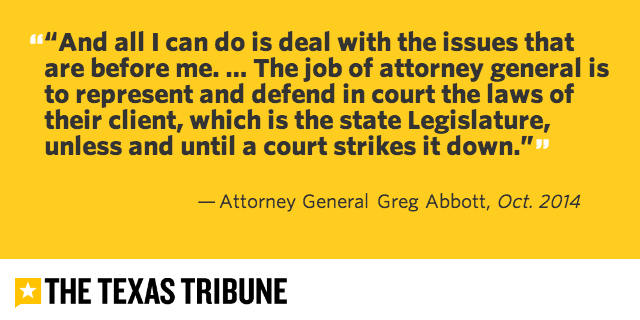
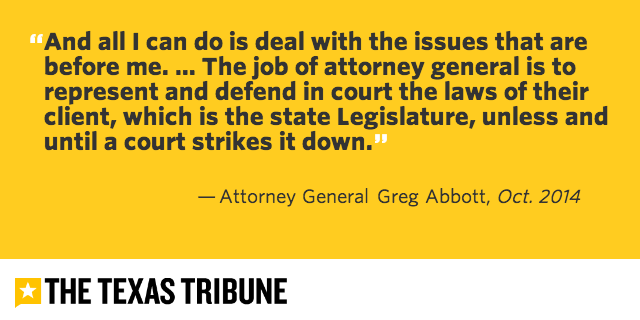
fixed image double quotes, added facebook btn

Changed region(s): [[0.0625, 0.0938, 0.9688, 0.5], [0.3125, 0.5938, 0.9062, 0.6562]]

diff --git a/app/index.html b/app/index.html
@@ -19,12 +19,12 @@
 <body>
 <div id="graphic" class="graphic">
 <div class="counter">
-  <p><span class="current">1</span> out of <span class="total">13</span></p>
+  <p><span class="current">1</span> of <span class="total">13</span></p>
 </div>
   <div class="slideshow">
     <div class="prev slide-btn">
       <div class="btn-container">
-        <i class="fa fa-chevron-left"></i>
+        <a href="javascript:void(0)"><i class="fa fa-chevron-left"></i></a>
       </div>
     </div>
     <div class="clearfix">
@@ -48,7 +48,7 @@
           <p><a class="story-url" target="_top" href="{{ quote.articleUrl }}">{{ quote.headline }}</a></p>
         </div>
         <div class="share-box">
-          <p><span class="fa fa-twitter tweet social"></span> <span class="fa fa-envelope mail social"></span> <span class="fa fa-facebook fbook social"></span> </p>
+          <a target="_top" href="https://www.facebook.com/dialog/feed?app_id=154122474650943&display=popup&name=The%20Tribune%27s%20Best%20Quotes%20of%202014&link=http%3A%2F%2Fwww.texastribune.org%2F2014%2F12%2F23%2Ftribunes-best-quotes-2014%2F&redirect_uri=http%3A%2F%2Fwww.texastribune.org%2F2014%2F12%2F23%2Ftribunes-best-quotes-2014%2F&description={{ quote.quote | urlencode }}&image={{ quote.facebookUrl | urlencode }}"><span class="fa fa-facebook fbook social"></span></a>
         </div>
       </div>
       {% else %}
@@ -66,7 +66,9 @@
               <p><a class="story-url" target="_top" href="{{ quote.articleUrl }}">{{ quote.headline }}</a></p>
             </div>
             <div class="share-box">
-              <p><span class="fa fa-twitter tweet social"></span> <span class="fa fa-envelope mail social"></span> <span class="fa fa-facebook fbook social"></span> </p>
+              <p>
+              <a target="_top" href="https://www.facebook.com/dialog/feed?app_id=154122474650943&display=popup&name=The%20Tribune%27s%20Best%20Quotes%20of%202014&link=http%3A%2F%2Fwww.texastribune.org%2F2014%2F12%2F23%2Ftribunes-best-quotes-2014%2F&redirect_uri=http%3A%2F%2Fwww.texastribune.org%2F2014%2F12%2F23%2Ftribunes-best-quotes-2014%2F&description={{ quote.quote | urlencode }}&image={{ quote.facebookUrl | urlencode }}"><span class="fa fa-facebook fbook social"></span></a>
+              </p>
             </div>
           </div>
         </div>
@@ -76,7 +78,7 @@
   </div>
     <div class="next slide-btn">
       <div class="btn-container">
-        <i class="fa fa-chevron-right"></i>
+        <a href="javascript:void(0)"><i class="fa fa-chevron-right"></i></a>
       </div>
     </div>
   </div>

diff --git a/app/scripts/main.js b/app/scripts/main.js
@@ -9,34 +9,22 @@
 
   //prev/next buttons being buttons
   $('.slide-btn').on('click', function(){
+    var trigger = $(this).hasClass('next') ? 'next' : 'prev';
     var activeSlide = $('.slide.active'),
       idx = $('.slide').index(activeSlide),
-      nextSlide = $(this).hasClass('next') ? idx + 1 : idx - 1;
+      nextSlide = trigger === 'next' ? idx + 1 : idx - 1;
     $('.slide').eq(nextSlide).addClass('active').siblings('.active').removeClass('active');
     console.log(idx);
 
     pymChild.sendHeight();
 
-
     // reset at the end
-    if (idx === 12){
+    if (idx === 12 && trigger === 'next'){
       $('.slide').eq(0).addClass('active').siblings('.active').removeClass('active');
     };
 
-  });
-
-  $('.next.slide-btn').on('click', function(){
-    $('.current').html(current += 1);
-    if (idx === 12){
-      current = 1;
-    }
-  });
-
-  $('prev.slide-btn').on('click', function(){
-    $('current').html(current -= 1);
-    if (idx === 12){
-      current = 12;
-    }
+    $('.current').text($('.slide').index($('.active')) + 1);
+    // console.log(nextSlide);
   });
 
   // oh cool, it works with keyboard arrows too!

diff --git a/app/styles/slideshow/_slideshow.scss b/app/styles/slideshow/_slideshow.scss
@@ -2,6 +2,13 @@
   @include outer-container();
 }
 
+.counter{
+  font-weight: 600;
+  text-align: center;
+  font-style: italic;
+  font-size: .8em;
+}
+
 .slideshow{
   @include row();
   position: relative;
@@ -100,6 +107,11 @@ $blurb-bp: new-breakpoint(min-width 550px);
   font-size: 30px;
   transition: all 0.2s linear;
   color: black;
+  a{
+    text-decoration: none;
+    color: black;
+    display: block;
+  }
   .next{
     @include omega();
   }
@@ -148,12 +160,19 @@ $blurb-bp: new-breakpoint(min-width 550px);
     padding: 3px;
     width: 3em;
     &:hover{
-      background-color: #ccc;
+      background-color: #ddd;
     }
   }
   p{
     margin: .5em;
   }
+  a{
+  text-decoration: none;
+  color: #3b5998;
+  &:hover{
+    text-decoration: underline;
+  }
+}
 }
 
 .hidden{

diff --git a/Gruntfile.js b/Gruntfile.js
@@ -205,7 +205,7 @@ module.exports = function (grunt) {
           src: [
             '<%= config.dist %>/scripts/{,*/}*.js',
             '<%= config.dist %>/styles/{,*/}*.css',
-            '<%= config.dist %>/images/{,*/}*.*',
+            // '<%= config.dist %>/images/{,*/}*.*',
             '<%= config.dist %>/styles/fonts/{,*/}*.*',
             '<%= config.dist %>/*.{ico,png}'
           ]
